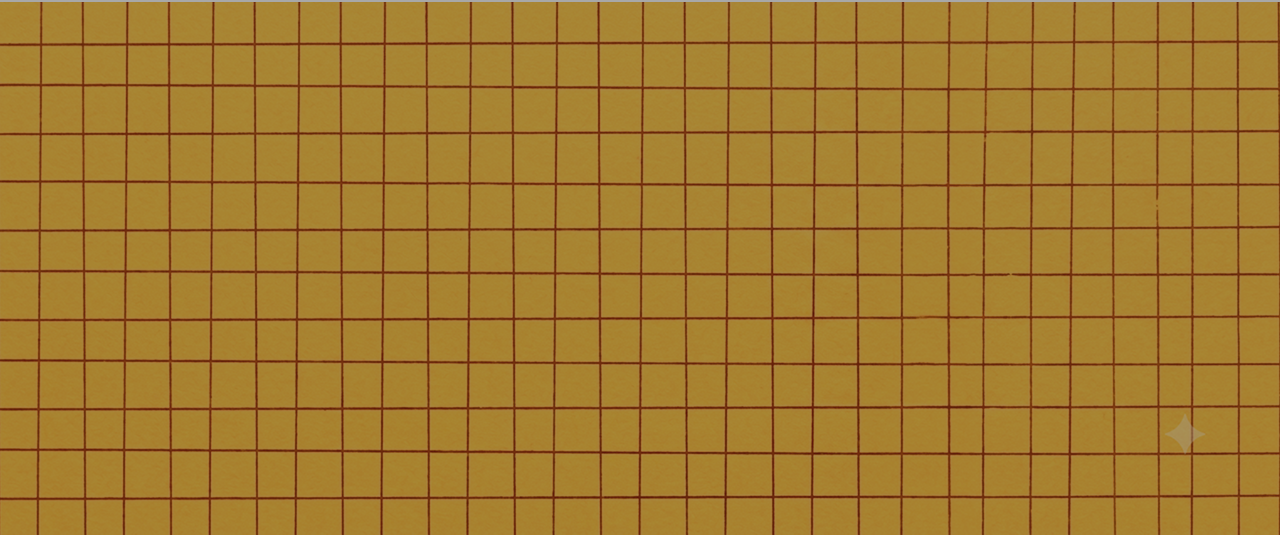
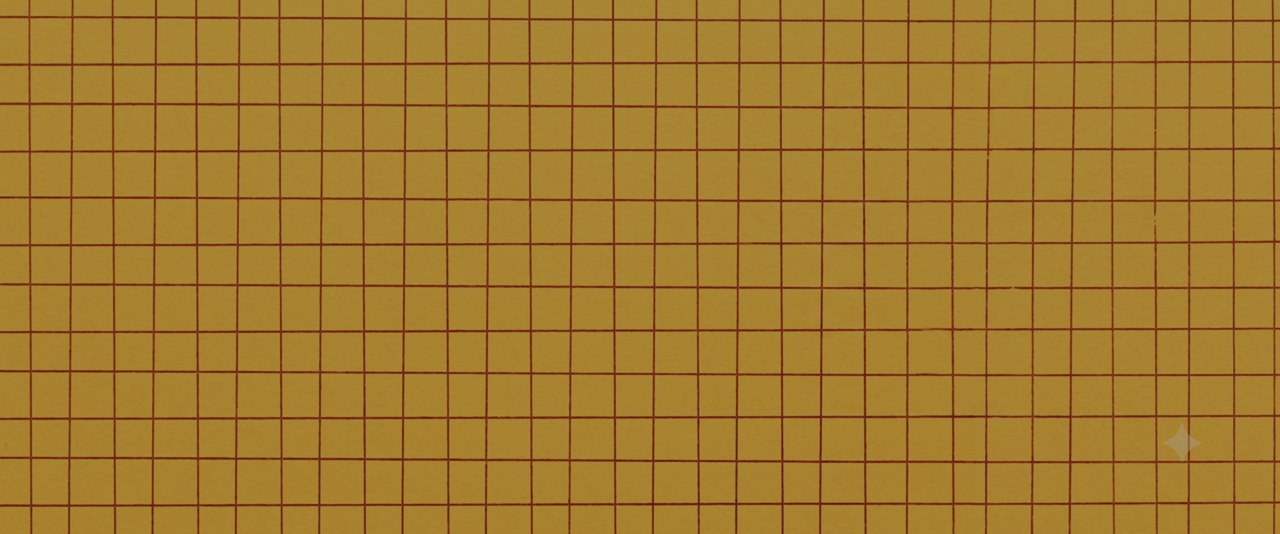
Estilização no CSS do Hero

Changed region(s): [[0.0, 0.0, 1.0, 1.0]]

diff --git a/home.css b/home.css
@@ -21,7 +21,7 @@ header {
     background-repeat: no-repeat;
 
     .logo-toy {
-        width: 150px;
+        width: 140px;
         padding: 10px;
     }
 }
@@ -38,7 +38,7 @@ header {
 .hamburguer {
     display: none;
 
-    @media(max-width: 600px) {
+    @media(max-width: 700px) {
         display: flex;
 
         img {
@@ -52,7 +52,7 @@ header {
 .menuClose {
     display: none;
 
-    @media(max-width: 650px) {
+    @media(max-width: 700px) {
         display: flex;
         align-self: flex-end;
         border: 0;
@@ -69,8 +69,7 @@ header {
 .menu {
     display: flex;
     gap: 24px;
-
-    background-image: url(imagens/fundo-menu.png);
+    padding-right: 10px;
 
     a {
         font-size: 20px;
@@ -81,7 +80,8 @@ header {
         text-decoration: none;
     }
 
-    @media(max-width: 650px) {
+    @media(max-width: 700px) {
+        background-image: url(imagens/fundo-menu.png);
         position: fixed;
         transform: translateX(-100%);
         top: 0;
@@ -98,9 +98,153 @@ header {
     transform: translateX(0);
 }
 
-.hero{
+.hero {
     background-image: url(imagens/home-hero.png);
+    background-size: cover;
+    background-position: center;
     width: 100%;
-    
-    
+    height: 550px;
+    margin-top: 100px;
+}
+
+.containerHero {
+    display: flex;
+    flex-direction: column;
+    justify-content: center;
+    padding: 30px;
+    width: 620px;
+
+    h4 {
+        color: #FFD900;
+        font-weight: 800;
+        background-color: #E20025;
+        padding: 10px;
+        align-self: flex-start;
+        border-top-right-radius: 80px;
+        border-bottom-right-radius: 80px;
+    }
+
+    >img {
+        max-width: 450px;
+        padding-top: 10px;
+    }
+
+    p {
+        color: #ffffff;
+        font-weight: 700;
+        font-size: 18px;
+        padding-top: 10px;
+        padding-bottom: 10px;
+
+        .azul-negrito {
+            color: #4493DD;
+            font-weight: 800;
+        }
+
+        .azul-italico {
+            color: #4493DD;
+            font-style: italic;
+        }
+    }
+
+    .botao {
+        position: relative;
+        display: flex;
+
+        @media(max-width: 520px) {
+            flex-direction: column;
+            align-self: flex-start;
+        }
+
+
+        .doação {
+            display: flex;
+            align-items: center;
+            justify-content: center;
+
+            img {
+                position: relative;
+                z-index: 1;
+                width: 200px;
+                height: 50px;
+            }
+
+            .doar {
+                z-index: 2;
+                position: absolute;
+                color: #FFD900;
+                font-weight: 800;
+                text-decoration: none;
+                padding: 10px;
+
+                &:hover {
+                    color: #ffffff;
+                    transition: 0.5s;
+                }
+            }
+        }
+
+
+        .funcionamento {
+            display: flex;
+            align-items: center;
+            justify-content: center;
+
+            img {
+                position: relative;
+                z-index: 1;
+                width: 250px;
+                height: 50px;
+            }
+
+            .funciona {
+                position: absolute;
+                z-index: 2;
+                color: #FFD900;
+                font-weight: 800;
+                text-decoration: none;
+                padding: 10px;
+
+                &:hover {
+                    color: #ffffff;
+                    transition: 0.5s;
+                }
+            }
+        }
+
+    }
+
+    @media(max-width: 650px) {
+        width: 100%;
+
+        h1 {}
+
+    }
+}
+
+.missao {
+    display: flex;
+    background-image: url(imagens/fundo-missao.png);
+    top: 1px;
+    padding: 20px;
+    justify-content: center;
+    align-items: center;
+    gap: 140px;
+
+    img {}
+
+    .containerMissao {
+
+        h4 {
+            width: 200px;
+            justify-content: center;
+            color: #FFD900;
+            font-weight: 800;
+            background-color: #5B9233;
+            padding: 10px;
+            align-self: flex-start;
+            border-top-right-radius: 80px;
+            border-bottom-right-radius: 80px;
+        }
+    }
 }

diff --git a/home.html b/home.html
@@ -36,15 +36,23 @@
     <div class="hero">
         <div class="containerHero">
             <h4>ALEGRANDO CRIANÇAS ATÉ O INFINITO E ALÉM! 🚀</h4>
-            <h1>HÁ UM AMIGO EM VOCÊ.</h1>
+           <img src="imagens/HÁ UM AMIGO EM VOCÊ..png" alt="">
             <p>Algumas histórias terminam para que outras possam começar.
                 Doe um brinquedo e compartilhe uma história.
                 <span class="azul-negrito">Não é o fim da brincadeira.</span>
                 <span class="azul-italico">É apenas uma nova fase.</span>
             </p>
             <div class="botao">
-                <a class="doar" href="#">QUERO DOAR</a>
-                <a class="funciona" href="#">COMO FUNCIONA?</a>
+                <div class="doação">
+                    <img src="imagens/vetor1.png" alt="">
+                    <a class="doar" href="#">QUERO DOAR</a>
+                </div>
+
+                <div class="funcionamento">
+                    <img src="imagens/vetor2.png" alt="">
+                    <a class="funciona" href="#">COMO FUNCIONA?</a>
+                </div>
+
             </div>
         </div>
     </div>
@@ -100,6 +108,8 @@
             </div>
         </div>
     </div>
+
+
 
     <script src="home.js"></script>
 </body>
